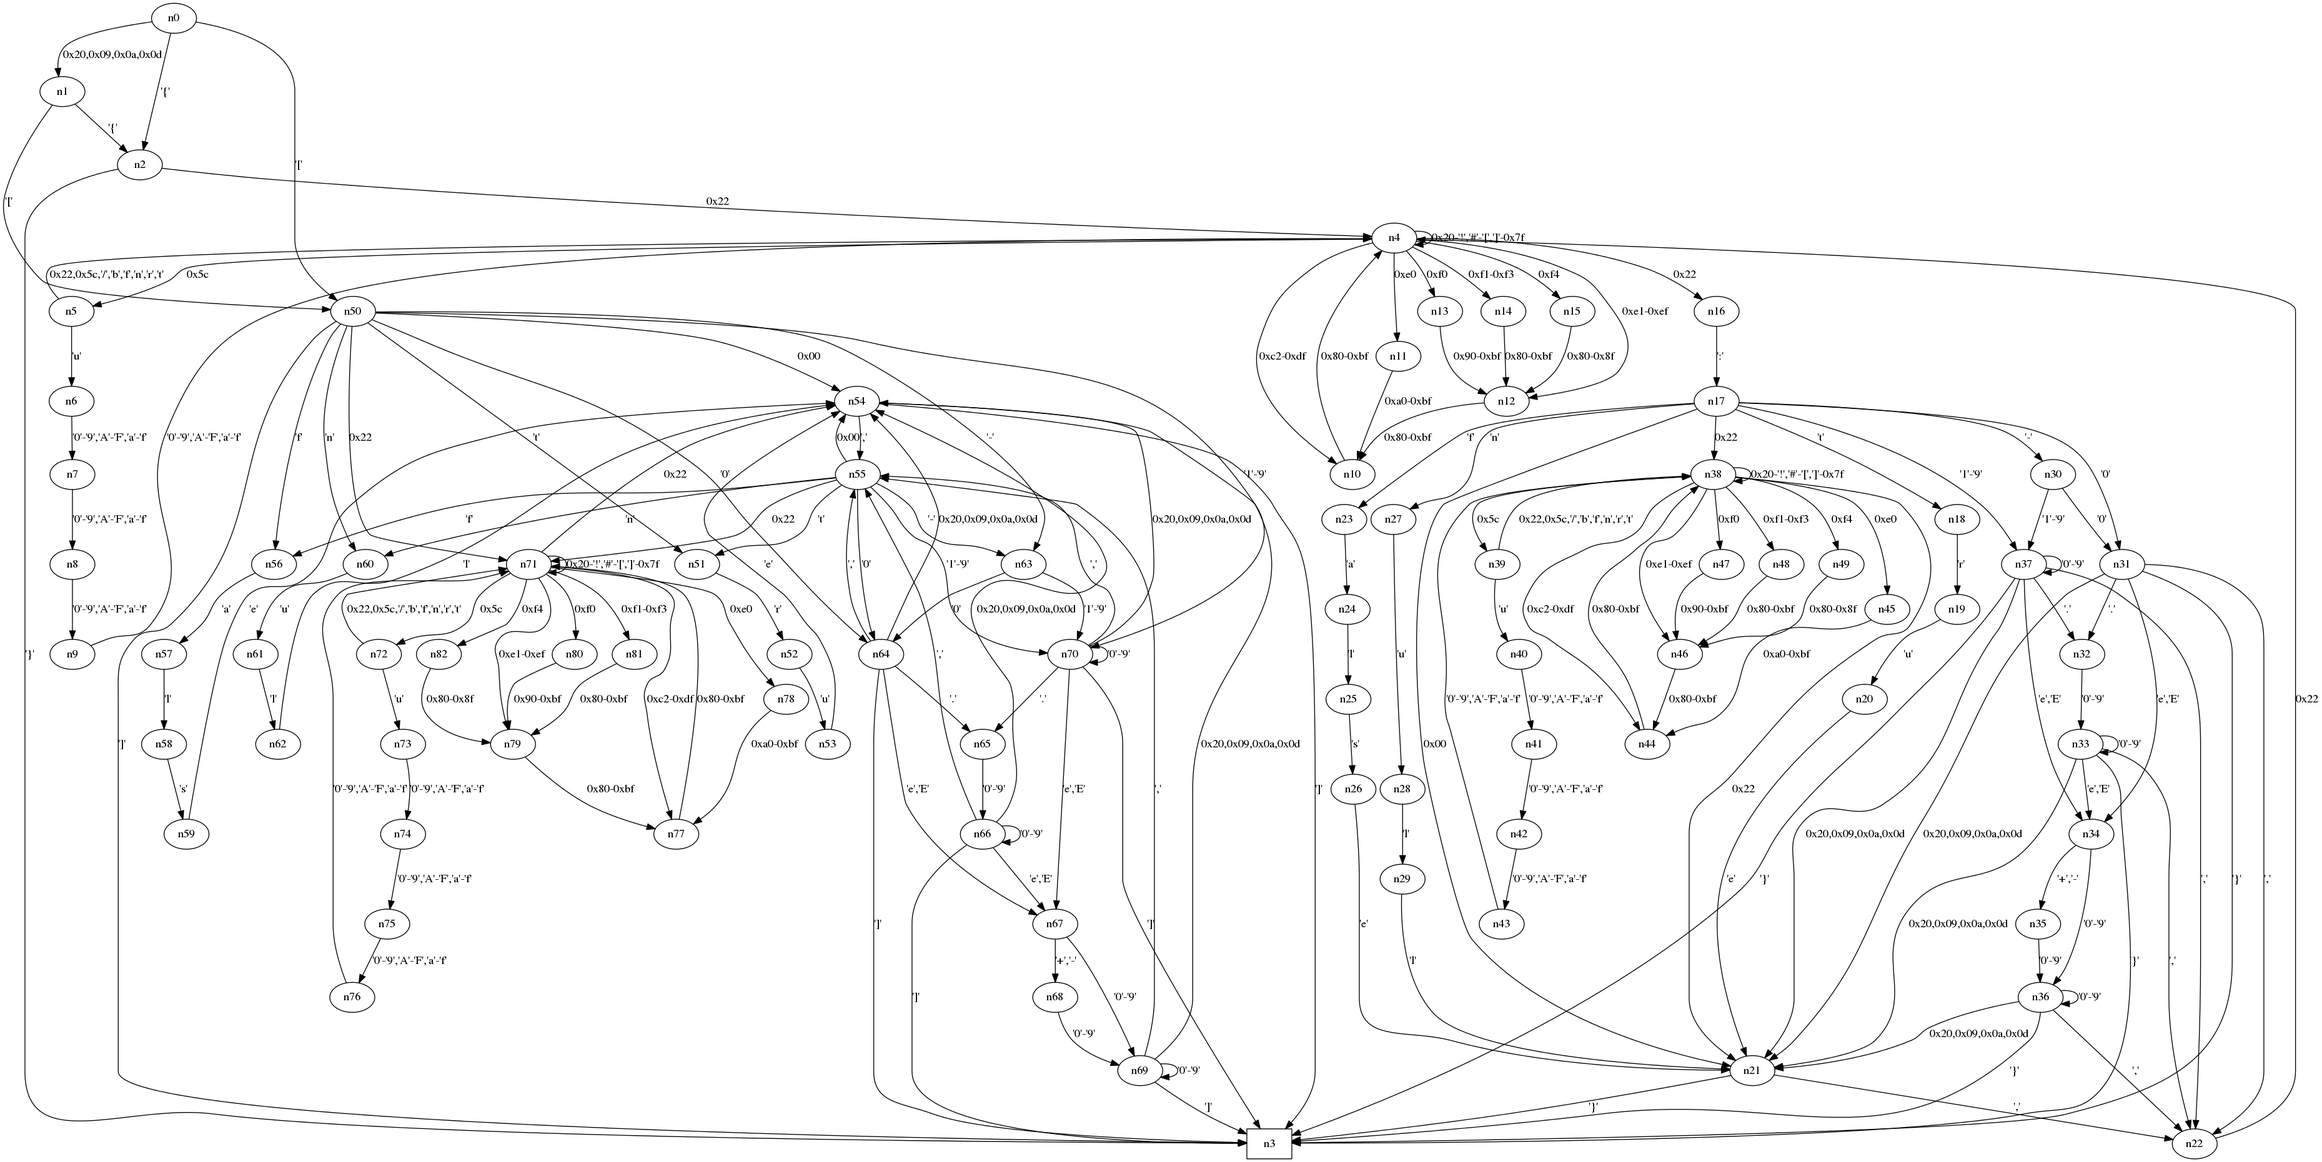
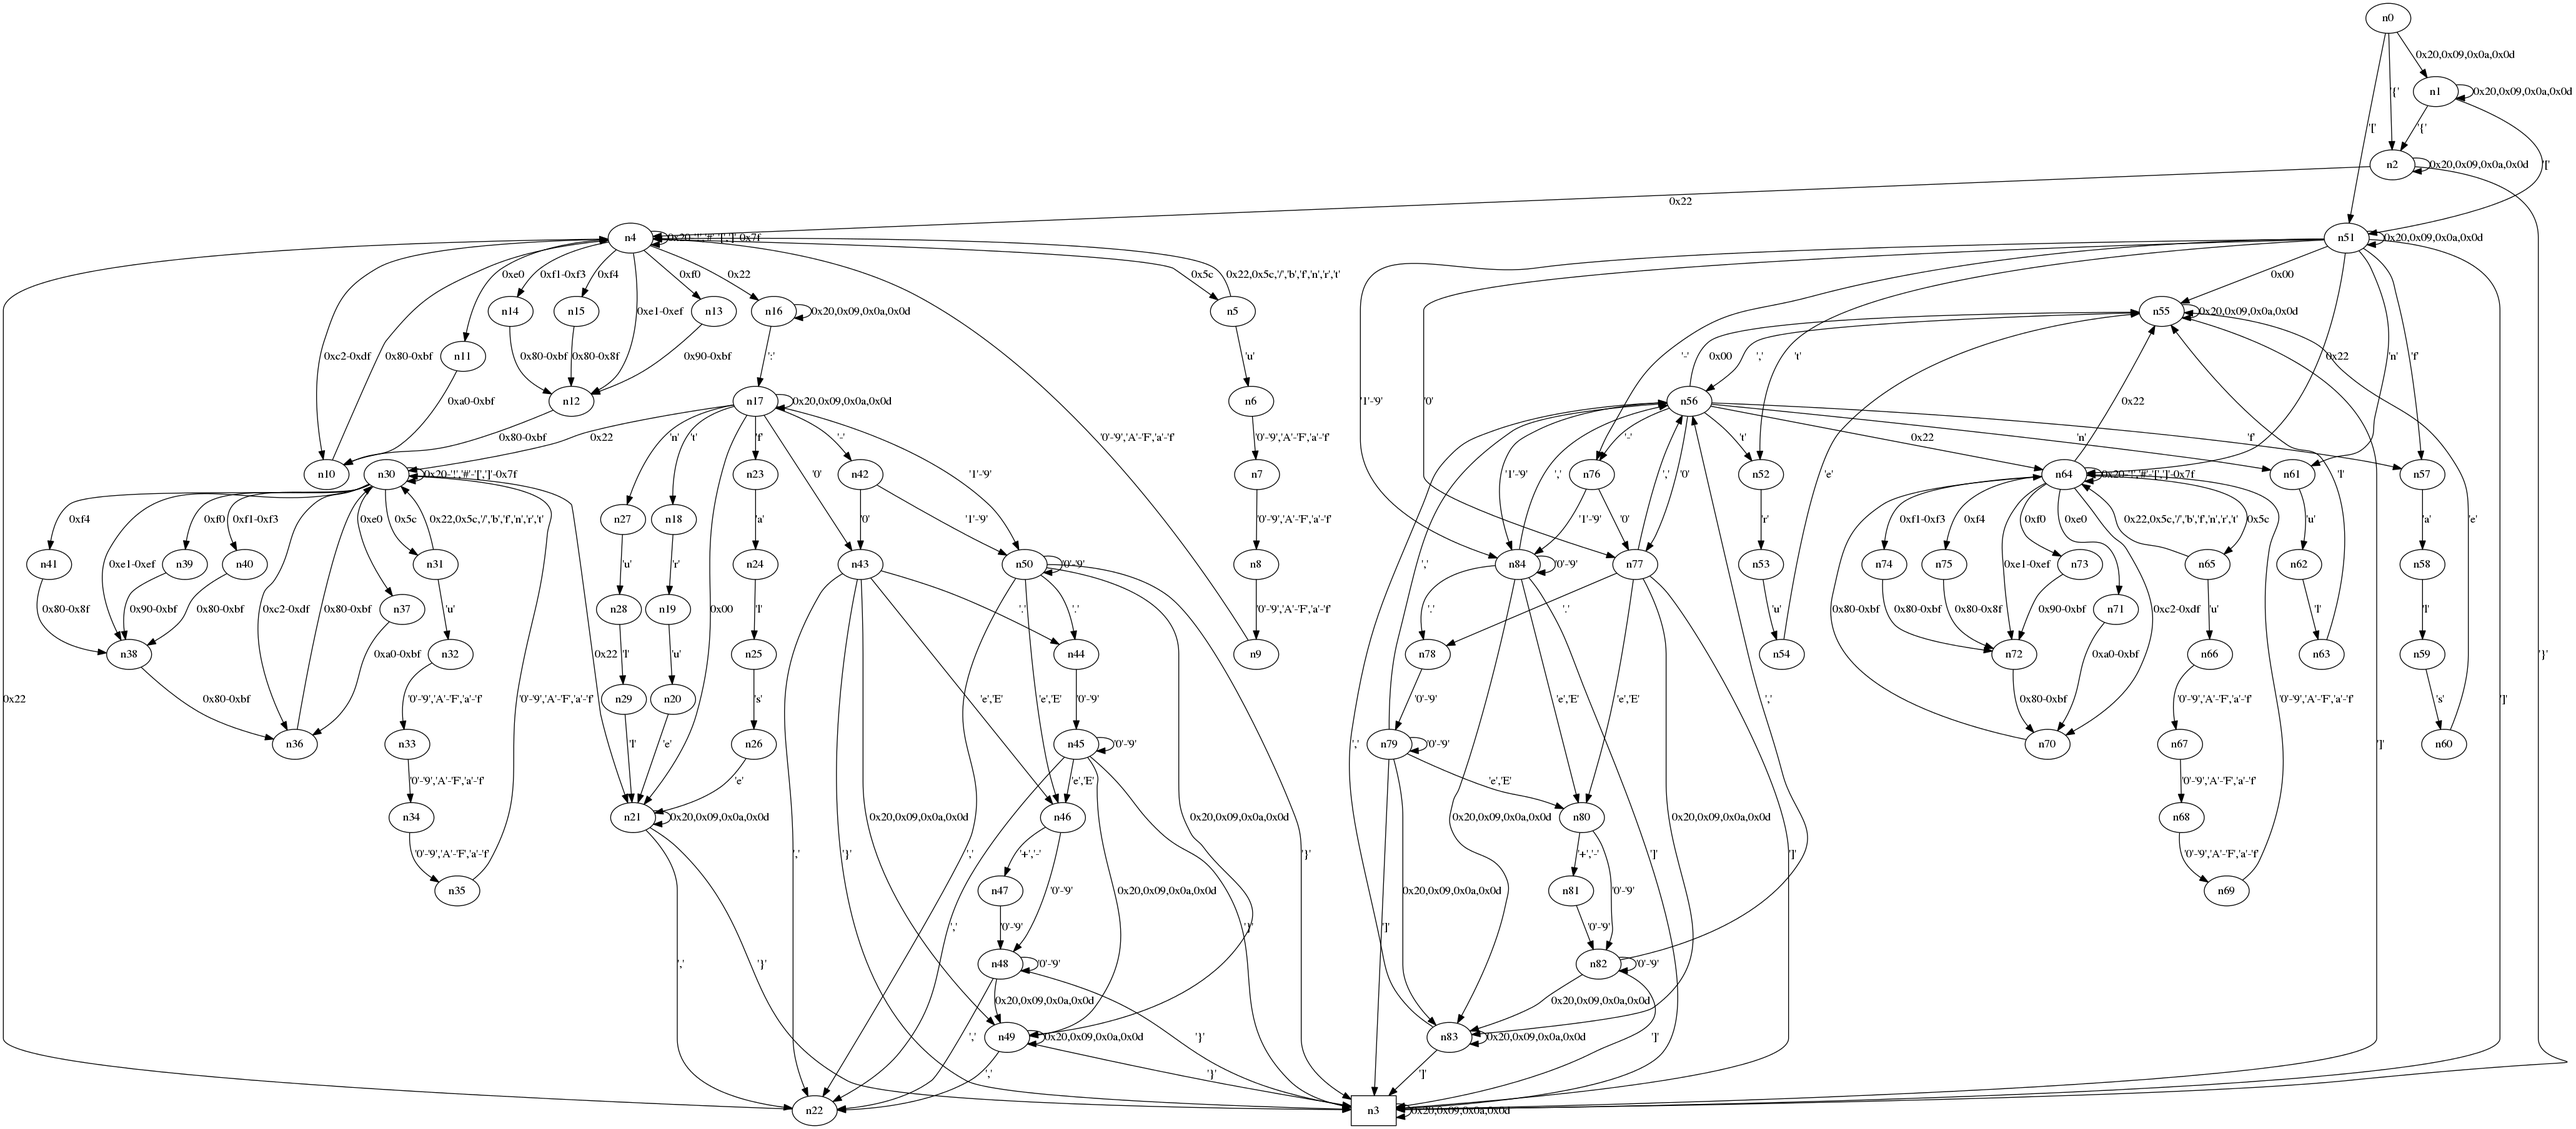
Update transitions diagram now that it contains insignificant whitespace

diff --git a/README.md b/README.md
@@ -102,6 +102,3 @@ Sample results of `stack build --file-watch --exec 'json-validator-exe --regress
     variance introduced by outliers: 48% (moderately inflated)
 
 ![Transitions Diagram](transitions.png)
-
-(NB this diagram doesn't include insignificant whitespace consumption
-that doesn't change to a different state)
